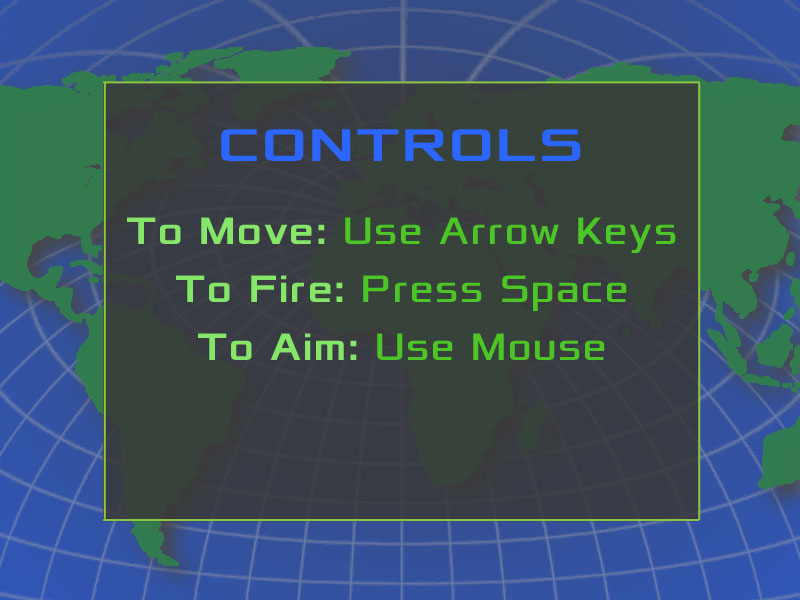
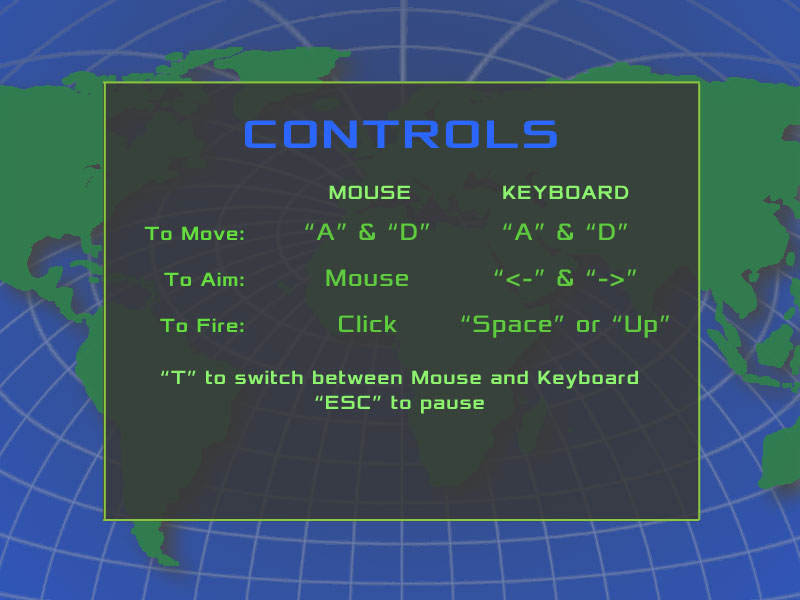
Controls Update

diff --git a/src/com/github/cop4331sum13/gui/Controls.java b/src/com/github/cop4331sum13/gui/Controls.java
@@ -23,7 +23,7 @@ public class Controls extends JPanel implements ActionListener {
 	private static final long serialVersionUID = 1L;
 	private JPanel container;
 	private JButton ret;
-	private JLabel title, con1, con2, con3, con4, con5, con6;
+	private JLabel title, con1, con2, con3, con4, con5, con6, con7;
 	
 	private Font head = new Font("Xolonium", Font.PLAIN, 50);
 	private Font text = new Font("Xolonium", Font.PLAIN, 30);
@@ -54,6 +54,8 @@ public class Controls extends JPanel implements ActionListener {
 		con5.setFont(text);
 		con6 = new JLabel(" ");
 		con6.setFont(text);
+		con7 = new JLabel(" ");
+		con7.setFont(text);
 		
 		this.setLayout(new GridBagLayout());
 		GridBagConstraints c = new GridBagConstraints();
@@ -74,6 +76,8 @@ public class Controls extends JPanel implements ActionListener {
 		c.gridy = 6;
 		this.add(con6, c);
 		c.gridy = 7;
+		this.add(con7, c);
+		c.gridy = 8;
 		c.insets = new Insets(40, 0, 0, 0);
 		this.add(ret, c);
 		
